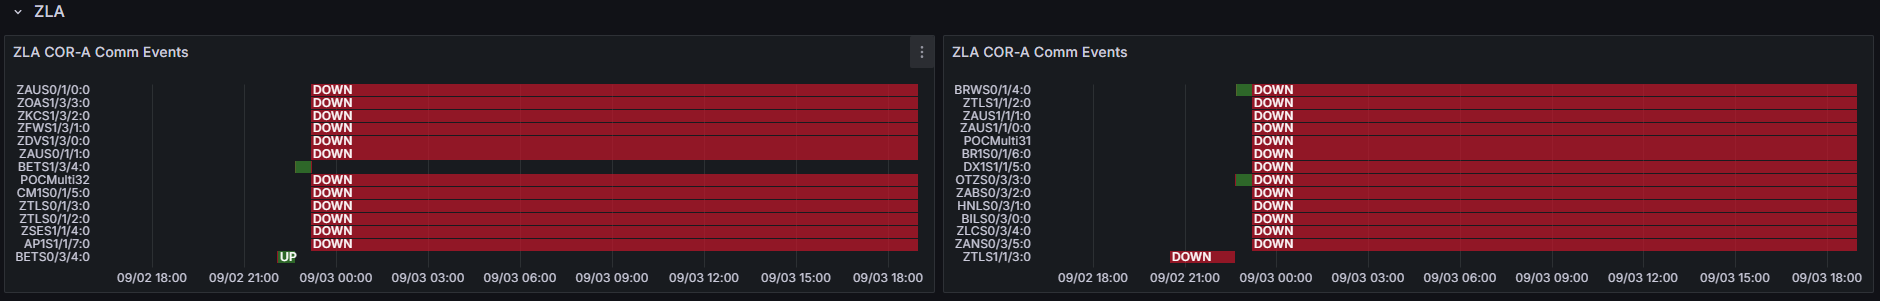
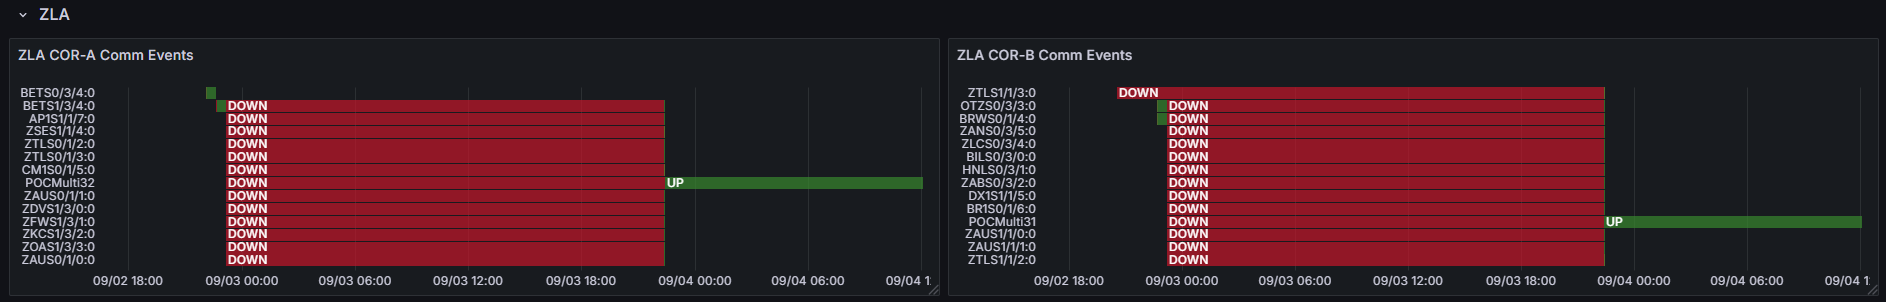
added comm clear for ZLA

diff --git a/sysmon/index.html b/sysmon/index.html
@@ -1329,8 +1329,6 @@
                                                       <h4 class="mb-0">9/2 - ZLA Comm Outages</h4>
                                                       <div class="mb-0">
                                                             <ul>
-                                                                  <li>9/2 20:31 - ZLA-ZTL Ring 2 PRI comms down hard...
-                                                                  </li>
                                                                   <li>9/2 23:11 - Major comm outage affecting both Ring
                                                                         1 / Ring 2 ZLA Core including Ring 1 ALT / Ring
                                                                         2 PRI comms to POCC O&amp;M;
@@ -1344,13 +1342,16 @@
                                                                                     Routers followed by Control Power
                                                                                     ZLA Core Routers; no change to comm
                                                                                     down...</li>
+                                                                              <li><code>FTI found cut fiber at ZLA</code>
+                                                                              </li>
+                                                                              <li>9/3 22:23 - <strong>All lines cleared
+                                                                                          after repair (~23h
+                                                                                          12m)</strong></li>
                                                                         </ul>
                                                                   </li>
                                                             </ul>
-                                                            <p class="text-center"><img class="img-thumbnail col-md-4"
-                                                                        src="img/20250903_ZLA_Comm_Hit.JPEG"
-                                                                        alt="20250903 - ZLA Comm Outage"></p>
-                                                            <p class="text-center"><img class="img-thumbnail col-md-10"
+
+                                                            <p class="text-center"><img class="img-thumbnail col-md-12"
                                                                         src="img/20250903_ZLA_Comm_Down.png"
                                                                         alt="20250903 - ZLA Comm Outage"></p>
 
